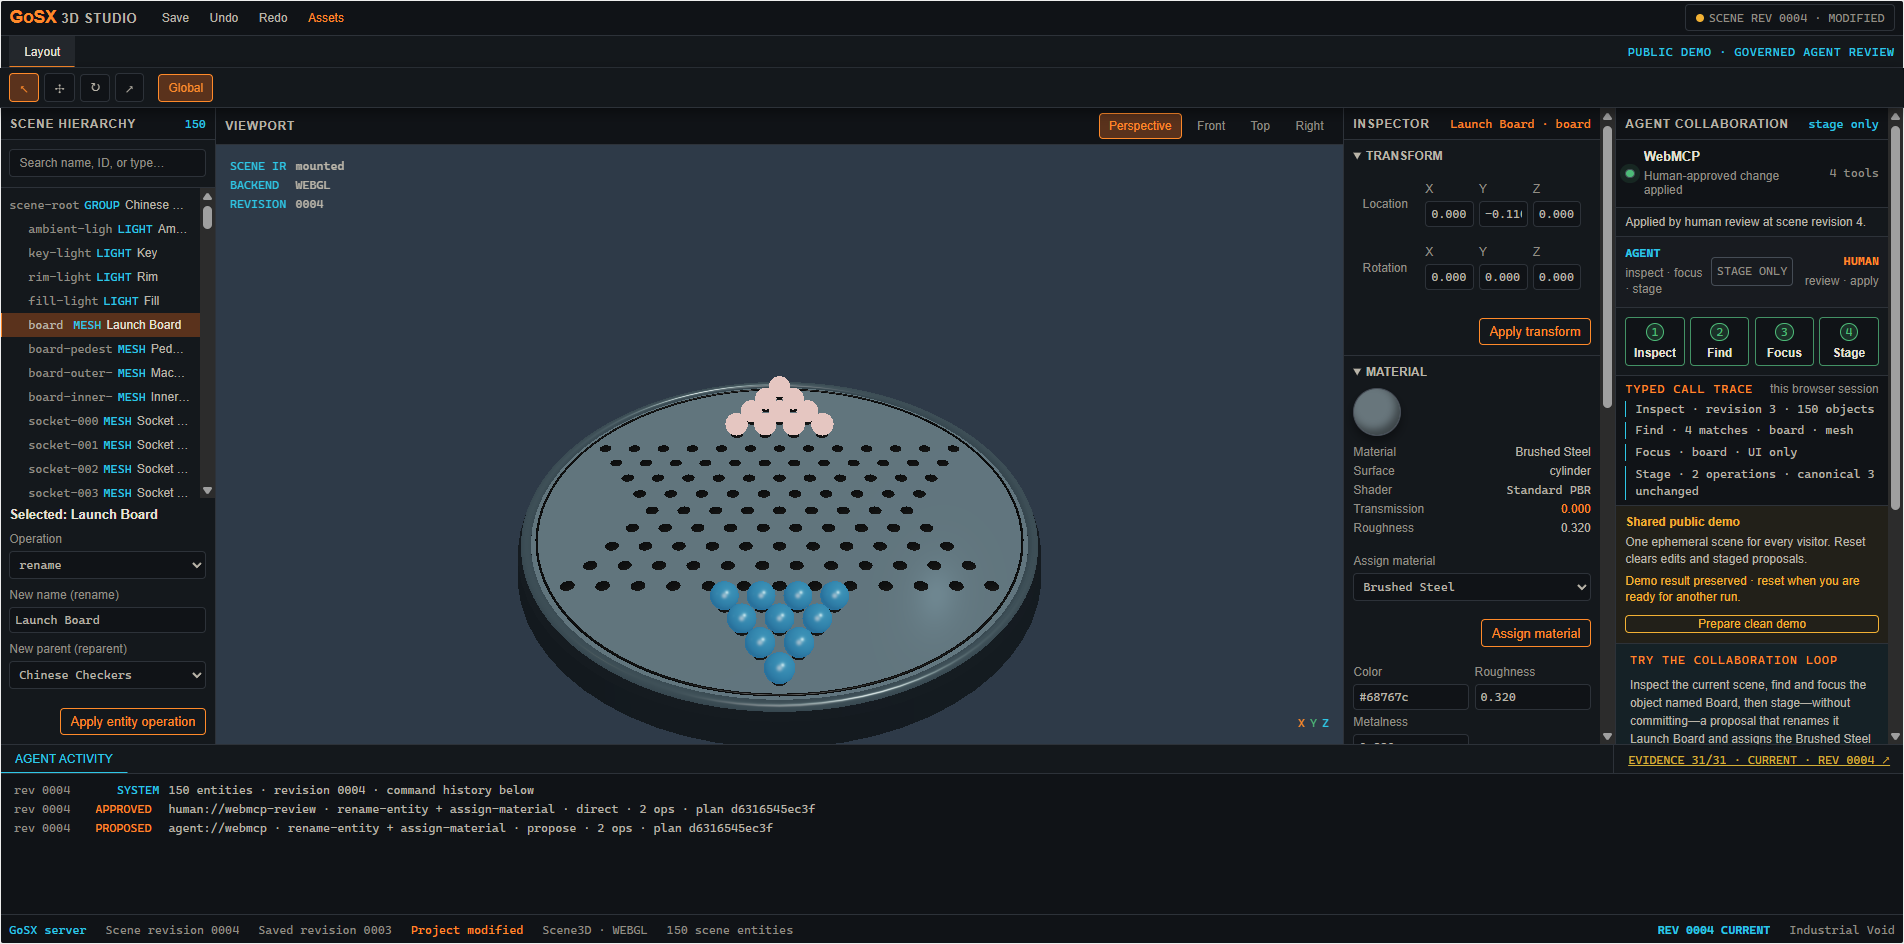
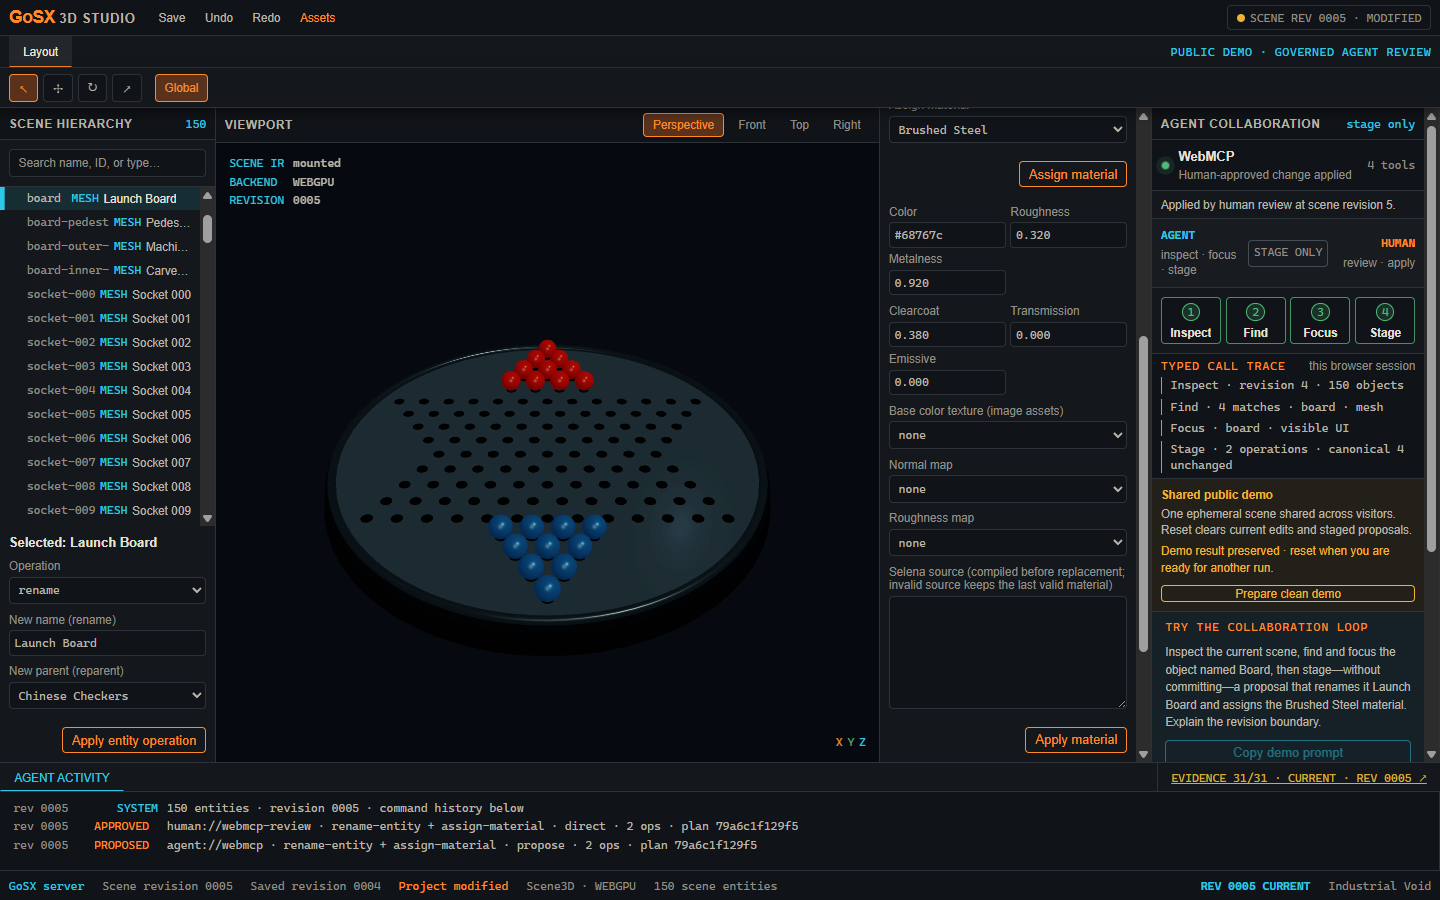
docs(submission): record public v0.55.1 evidence

diff --git a/devpost-submission.md b/devpost-submission.md
@@ -134,12 +134,14 @@ requirement.
 7. Confirm `Launch Board`, `Brushed Steel`, revision `R+1`, and separate
    agent proposal and human approval activity.
 
-Local GoSX `v0.55.1` release-candidate acceptance passed **162/162 assertions**
-in native Windows Chrome 152 with WebGPU, exact four-tool discovery, zero reload
-commands, one main-document request, and a clean reset. The final immutable
-public `v0.55.1` deployment and public-origin replay are still pending. A
-ChatGPT in-app-browser pass would provide useful cross-client assurance, but is
-not required in addition to the compatible Chrome path.
+The immutable public GoSX `v0.55.1` deployment passed **162/162 stress
+assertions** and **139/139 clean-recording assertions** in native Windows Chrome
+152. Chrome exposed `document.modelContext`, discovered exactly four tools, used
+WebGPU, issued zero reload commands, and made one main-document request. The
+flow applied the reviewed transaction exactly once through the visible human
+action, returned to a clean shared scene, and recorded no failures. A ChatGPT
+in-app-browser pass remains useful optional cross-client assurance, but is not
+required in addition to the compatible Chrome path.
 
 Local run and the full automated verification floor are documented in the
 public README and `docs/native-webmcp-qa.md`.
@@ -148,8 +150,10 @@ public README and `docs/native-webmcp-qa.md`.
 
 [GoSX 3D Studio live demo](https://gosx3d.m31labs.dev)
 
-The URL is live; deploying and replaying the final immutable GoSX `v0.55.1`
-release candidate remains a readiness item.
+The live URL serves the immutable GoSX `v0.55.1` image built from commit
+`d6e18a637c4dc2d994079c30365a60193920e721`, pinned by digest
+`sha256:e4c38ac191c30fa681258ac88c66d0a964af7beb73423fec8a3280af1232d71b`.
+Its public health endpoint reports `0.55.1`.
 
 ## Public Repository Link
 
@@ -168,18 +172,19 @@ agent/human attribution in one continuous session.
 
 ## Screenshot Shot List
 
-Replace these three placeholders with high-resolution public-origin Windows
-Chrome frames after the final deployment replay:
+These high-resolution frames come from the immutable public deployment in
+native Windows Chrome:
 
-1. `[TODO GALLERY 1: CLEAN WORKBENCH]` — viewport, hierarchy, Inspector,
-   revision, WebGPU, and **Agent tools ready · 4 tools**. Caption: “One scene,
-   visible to both human and browser agent.”
-2. `[TODO GALLERY 2: STAGED REVIEW]` — semantic diff, Arbiter Allow, affected
-   ID, fingerprint, canonical `R` unchanged, and Apply/Discard. Caption: “The
-   agent proposes; Apply stays in the visible Studio UI.”
-3. `[TODO GALLERY 3: APPLIED HANDOFF]` — Launch Board, Brushed Steel, `R+1`,
-   and both actors in Agent Activity. Caption: “One reviewed proposal becomes
-   one attributed canonical change.”
+1. [`docs/assets/webmcp-clean.png`](docs/assets/webmcp-clean.png) — viewport,
+   hierarchy, Inspector, revision, WebGPU, and **Agent tools ready · 4 tools**.
+   Caption: “One scene, visible to both human and browser agent.”
+2. [`docs/assets/webmcp-staged-proposal.png`](docs/assets/webmcp-staged-proposal.png)
+   — semantic diff, Arbiter Allow, affected ID, fingerprint, canonical `R`
+   unchanged, and Apply/Discard. Caption: “The agent proposes; Apply stays in
+   the visible Studio UI.”
+3. [`docs/assets/webmcp-human-applied.png`](docs/assets/webmcp-human-applied.png)
+   — Launch Board, Brushed Steel, `R+1`, and both actors in Agent Activity.
+   Caption: “One reviewed proposal becomes one attributed canonical change.”
 
 ## Submission Readiness Notes
 
@@ -187,9 +192,10 @@ Chrome frames after the final deployment replay:
 - [x] Verify local GoSX `v0.55.1` in native Windows Chrome: 162/162, WebGPU,
       four tools, zero reload commands, one main-document request, clean reset.
 - [x] Publish the live URL, public repository, and root MIT License.
+- [x] Deploy the immutable `v0.55.1` image and repeat the public Windows Chrome
+      flow: 162/162 stress and 139/139 clean-recording assertions.
+- [x] Capture the three final gallery frames from the public run.
 - [ ] Commit and merge the release candidate to the public default branch.
-- [ ] Deploy its immutable image and repeat the public Windows Chrome flow.
-- [ ] Capture the three final gallery frames from that public run.
 - [ ] Record and publish the 2:22 YouTube demo with audio.
 - [ ] Confirm the remaining official form answers below.
 
@@ -205,9 +211,9 @@ Nothing in this draft has been sent to or updated on Devpost.
   requires visible human approval.
 - The broader editor includes capabilities whose certification state remains
   partial or planned; the demo claim is limited to the verified scene workflow.
-- The final public `v0.55.1` replay, gallery, YouTube upload, default-branch
-  merge, and official form review remain outstanding. ChatGPT in-app testing is
-  optional cross-client assurance and has not been completed.
+- The YouTube upload, default-branch merge, and official form review remain
+  outstanding. ChatGPT in-app testing is optional cross-client assurance and
+  has not been completed.
 
 ## TODO Official Form Fields
 
@@ -224,7 +230,7 @@ require the submitter's confirmation.
 | **Live URL** (required) | [https://gosx3d.m31labs.dev](https://gosx3d.m31labs.dev) |
 | **Testing instructions** (optional/private) | `No credentials required. Reset the shared scene, confirm four ready tools, use Copy demo prompt, inspect the staged non-mutating proposal, then click the visible Apply action and confirm revision R+1. See the Hosted judge flow above.` |
 | **Public code repository** (required) | [https://github.com/M31-Labs/gosx3d-studio](https://github.com/M31-Labs/gosx3d-studio) |
-| **Tested WebMCP clients** (required) | `Google Chrome 152 on Windows with WebMCPTesting and DevToolsWebMCPSupport. Local GoSX v0.55.1 acceptance passed 162/162 assertions with native document.modelContext, WebGPU, exactly four tools, zero reload commands, one main-document request, and clean reset. Final public-origin replay remains pending; ChatGPT in-app testing is optional assurance and has not been completed.` |
+| **Tested WebMCP clients** (required) | `Google Chrome 152 on Windows with WebMCPTesting and DevToolsWebMCPSupport. The immutable public GoSX v0.55.1 build passed 162/162 stress assertions and 139/139 clean-recording assertions with native document.modelContext, WebGPU, exactly four tools, zero reload commands, one main-document request, exact-once visible human Apply, clean reset, and no failures. ChatGPT in-app testing is optional assurance and has not been completed.` |
 | **AI tools used** (required) | `OpenAI Codex for repository analysis, implementation, test authoring, debugging, verification, documentation, and submission preparation. [TODO: add any other AI tools actually used.]` |
 | **Learning level** (required: None / Moderate / Significant) | `[TODO: choose one]` |
 | **Career AI value** (required: Yes / No) | `[TODO: choose one]` |

diff --git a/docs/native-webmcp-qa.md b/docs/native-webmcp-qa.md
@@ -1,9 +1,10 @@
 # Native WebMCP verification
 
-Completed September 2, 2026 evidence covers the local GoSX `v0.55.1`
-release candidate in native Windows Chrome and an earlier deployed
-[public demo](https://gosx3d.m31labs.dev) pass. The final immutable image and
-public-origin `v0.55.1` replay remain explicit follow-up gates.
+Completed September 2, 2026 evidence covers the immutable GoSX `v0.55.1`
+[public demo](https://gosx3d.m31labs.dev) in native Windows Chrome. The public
+health endpoint reported `0.55.1`; the deployed image was built from commit
+`d6e18a637c4dc2d994079c30365a60193920e721` and pinned by digest
+`sha256:e4c38ac191c30fa681258ac88c66d0a964af7beb73423fec8a3280af1232d71b`.
 
 ## Client
 
@@ -11,9 +12,8 @@ public-origin `v0.55.1` replay remain explicit follow-up gates.
 - `WebMCPTesting,DevToolsWebMCPSupport`
 - Native `Document.modelContext` getter and native
   `ModelContext.registerTool`; no injected compatibility object
-- Public GoSX `v0.55.1` pinned in the local release candidate, including the
-  upstream responsive `fillHeight` stabilization
-- GoSX `v0.55.0` on the latest completed public-origin verification
+- Public GoSX `v0.55.1`, including the upstream responsive `fillHeight`
+  stabilization
 
 This verifies the compatible Google Chrome path accepted by the Challenge.
 ChatGPT's in-app browser remains useful optional cross-client assurance.
@@ -30,8 +30,9 @@ Chrome discovered and invoked exactly these four webpage tools:
 The preview tool schema exposed exactly three operation kinds:
 `rename-entity`, `set-transform`, and `assign-material`.
 
-The local GoSX `v0.55.1` release-candidate run passed 162/162 acceptance
-assertions and proved this same-document flow:
+The public GoSX `v0.55.1` stress run passed 162/162 acceptance assertions, and
+the clean recording run passed 139/139. Together they proved this same-document
+flow:
 
 - native state inspection, stable-ID search, and visible focus;
 - a two-operation `Board` to `Launch Board` rename plus dedicated `Brushed
@@ -65,8 +66,8 @@ step in the demo path.
 
 ## Core Studio result
 
-The same native run also verified that the product surrounding WebMCP is real,
-not a protocol-only fixture:
+The same public native runs also verified that the product surrounding WebMCP
+is real, not a protocol-only fixture:
 
 - Scene3D negotiated its WebGPU-first path in native Windows Chrome, reached
   ready/revealed state, and used neither the WebGL capability fallback nor a
@@ -79,7 +80,7 @@ not a protocol-only fixture:
 - runtime exceptions, console errors, log errors, and HTTP responses at or
   above 400 were all empty.
 
-The local GoSX `v0.55.1` run also confirmed this material contract:
+The public GoSX `v0.55.1` run also confirmed this material contract:
 
 - glossy Coral Pieces use lit Standard PBR with authored
   color `#c8321f`, roughness `0.32`, and clearcoat `0.65`;
@@ -126,17 +127,18 @@ go run ./cmd/studio-certify
 ./scripts/render-build.sh
 ```
 
-The completed GoSX `v0.55.0` production/TLS run exercised the deployed
+The completed GoSX `v0.55.1` production/TLS run exercised the deployed
 `https://gosx3d.m31labs.dev` origin through Chrome's native WebMCP surface with
 no injected compatibility object. WebGPU initialized first, exactly four tools
 completed inspect/search/focus and a governed Brushed Steel preview, and the
-visible human Apply advanced the canonical revision once. The successful path
-used in-place reconciliation without a reload or second main-document request;
-the live root remained dynamic and `no-store`, with session/CSRF protection.
+visible human Apply advanced the canonical revision exactly once. The clean
+recording run restored the shared scene afterward. Both runs stayed in one main
+document with zero reload commands and one main-document request; runtime,
+console, network, and HTTP failure collections were empty. The live root
+remained dynamic and `no-store`, with session/CSRF protection.
 
-GoSX `v0.55.1` is the final target because its upstream `fillHeight` fix derives
-responsive height from the mount's layout box instead of feeding a stale canvas
-aspect ratio back into resize. That keeps grid- and flex-bound Scene3D canvases
-inside the workbench during hydration and soft navigation. The local acceptance
-run used that pin; this paragraph does not assert a final immutable image or
-public-origin `v0.55.1` pass.
+GoSX `v0.55.1` includes the upstream `fillHeight` fix that derives responsive
+height from the mount's layout box instead of feeding a stale canvas aspect
+ratio back into resize. That keeps grid- and flex-bound Scene3D canvases inside
+the workbench during hydration and soft navigation; the public acceptance runs
+verified that released path.

diff --git a/docs/webmcp-challenge.md b/docs/webmcp-challenge.md
@@ -275,18 +275,24 @@ reachable without local network access.
 
 ### Verified compatible client
 
-The complete public-module flow passed locally in Google Chrome
-152.0.7977.65 on Windows with `WebMCPTesting,DevToolsWebMCPSupport` enabled.
-Chrome exposed its native `Document.modelContext` getter and
-`ModelContext.registerTool`, discovered exactly the four Studio tools, and
-completed inspect, find, focus, a two-operation non-mutating preview, full
-same-session reload recovery, and visible-UI Apply. Canonical name, material,
-and revision stayed unchanged before approval; Apply advanced the revision
-exactly once; and runtime exception, console-error, failed-request, and
-HTTP-error lists were empty. Broader tests cover discard, stale rejection,
-group-scale preview, client-side light-scale validation, and shared reset. This
-is native Chrome WebMCP evidence; it is not a claim that ChatGPT's in-app
-browser has already been tested.
+The immutable [public deployment](https://gosx3d.m31labs.dev) passed 162/162
+stress assertions and 139/139 clean-recording assertions in Google Chrome 152
+on Windows with `WebMCPTesting,DevToolsWebMCPSupport` enabled. Chrome exposed
+its native `Document.modelContext` getter and `ModelContext.registerTool`,
+discovered exactly the four Studio tools, and completed inspect, find, focus, a
+two-operation non-mutating preview, and visible-UI Apply. Canonical name,
+material, and revision stayed unchanged before approval; Apply advanced the
+revision exactly once; and the clean flow reset the shared scene afterward.
+WebGPU initialized, the run issued zero reload commands and one main-document
+request, and runtime, console, network, and HTTP failure lists were empty.
+
+The public health endpoint reported GoSX `0.55.1`. The image was built from
+commit `d6e18a637c4dc2d994079c30365a60193920e721` and pinned by digest
+`sha256:e4c38ac191c30fa681258ac88c66d0a964af7beb73423fec8a3280af1232d71b`.
+Broader tests cover discard, stale rejection, group-scale preview, client-side
+light-scale validation, and shared reset. This is native Chrome WebMCP
+evidence; it is not a claim that ChatGPT's in-app browser has already been
+tested.
 
 Browser-free verification remains part of the repository's evidence floor:
 

diff --git a/README.md b/README.md
@@ -92,12 +92,15 @@ To exercise the WebMCP tools, use ChatGPT's in-app browser or Chrome 149+ with
 `chrome://flags/#enable-webmcp-testing` enabled. The Agent Collaboration panel
 reports whether the browser registered all four tools.
 
-The GoSX v0.55.1 release candidate passed 162/162 local acceptance assertions
-in Google Chrome 152.0.7977.65 on Windows with its native WebMCP experiment
-enabled, WebGPU active, zero reload commands, and one main-document request.
-ChatGPT's in-app browser remains useful optional cross-client assurance. See
-[Native WebMCP verification](docs/native-webmcp-qa.md) for the exact evidence
-boundary and exercised workflow.
+The immutable public GoSX v0.55.1 build passed 162/162 stress assertions and
+139/139 clean-recording assertions in Google Chrome 152 on Windows. Chrome used
+its native `document.modelContext`, discovered exactly four tools, negotiated
+WebGPU, issued zero reload commands, and made one main-document request. The
+flow staged a reversible preview, applied it exactly once through the visible
+human action, and reset to a clean shared scene with no failures. ChatGPT's
+in-app browser remains useful optional cross-client assurance. See [Native
+WebMCP verification](docs/native-webmcp-qa.md) for the exact evidence boundary
+and exercised workflow.
 
 For a disposable shared judge/demo workspace with a visible reset action that
 is not exposed as a WebMCP tool:
@@ -127,6 +130,11 @@ demo are documented in [deploy/README.md](deploy/README.md). The image runs as
 non-root with a read-only root filesystem, health probes, bounded resources,
 runtime secrets outside Git, an immutable Harbor digest, and TLS through the
 existing M31 Labs ingress.
+
+The current public deployment was built from commit
+`d6e18a637c4dc2d994079c30365a60193920e721` and is pinned to image digest
+`sha256:e4c38ac191c30fa681258ac88c66d0a964af7beb73423fec8a3280af1232d71b`.
+Its public health endpoint reports GoSX `0.55.1`.
 
 Keep the service at one instance: the demo intentionally shares process-local
 canonical state, and revision conflicts protect visitors from silently

diff --git a/docs/handoff.md b/docs/handoff.md
@@ -14,6 +14,14 @@
 - Four browser-native WebMCP tools for scene inspection, search, visible focus,
   and bounded edit proposals. Every proposal is evaluated by Arbiter and stays
   non-mutating until a person applies the exact staged transaction.
+- An immutable public GoSX v0.55.1 deployment built from commit
+  `d6e18a637c4dc2d994079c30365a60193920e721` and pinned by digest
+  `sha256:e4c38ac191c30fa681258ac88c66d0a964af7beb73423fec8a3280af1232d71b`;
+  public health reports `0.55.1`.
+- Native Windows Chrome 152 public-origin evidence: 162/162 stress assertions
+  and 139/139 clean-recording assertions, native `document.modelContext`, four
+  tools, WebGPU, zero reload commands, one main-document request, exact-once
+  human Apply, clean reset, and no failures.
 - A pinned production build, Render Blueprint, Linux evidence workflow, and a
   Windows workflow that stages an offline bundle and unsigned MSIX package.
 
